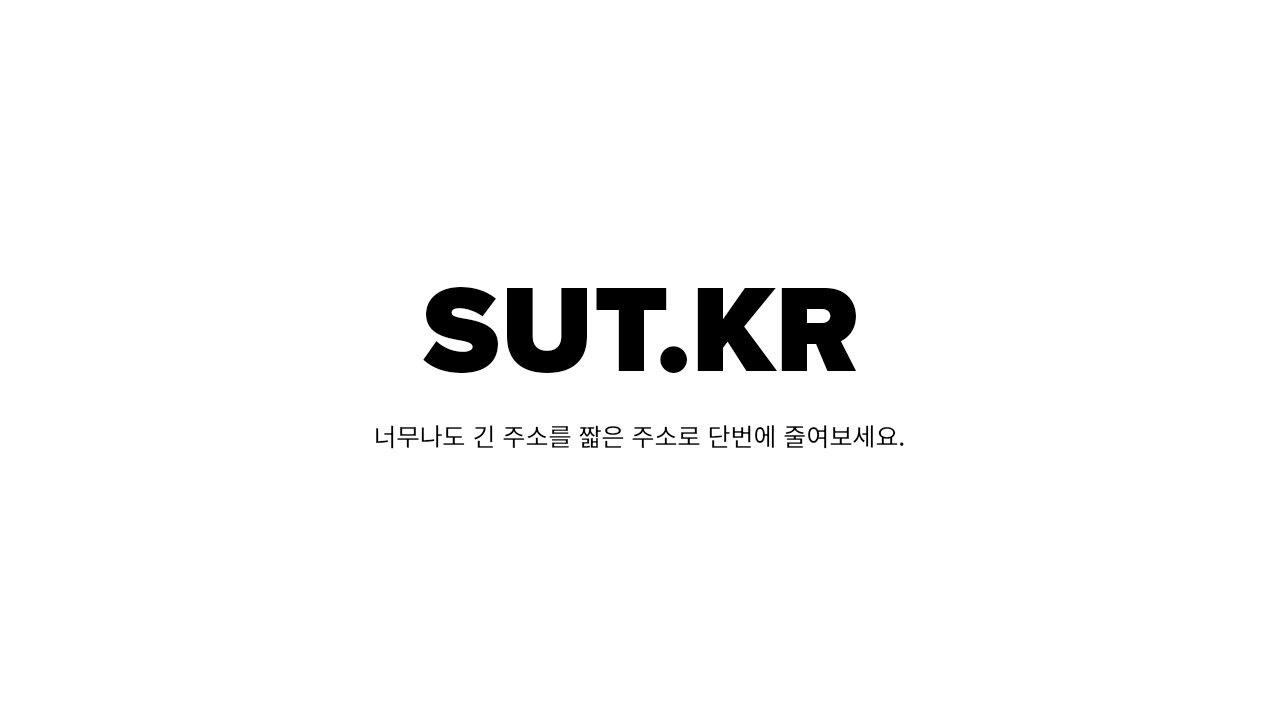
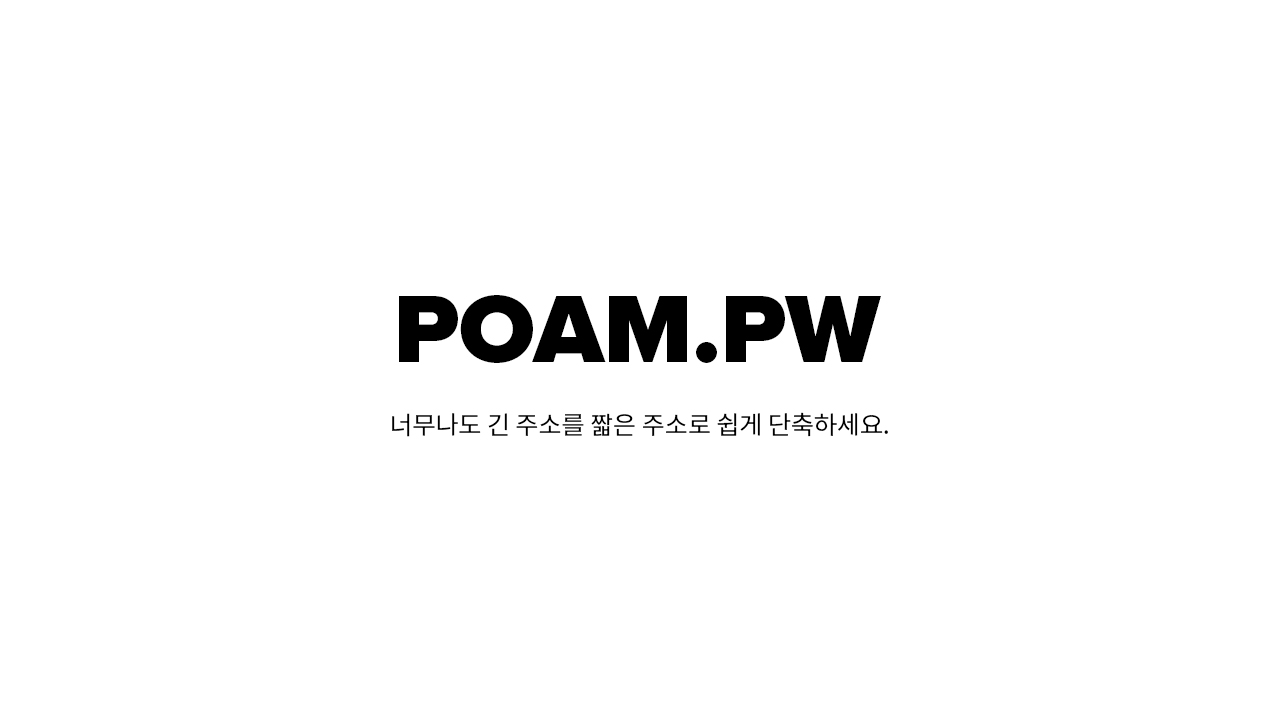
이름 변경, 배경 사진 및 파비콘 변경

Changed region(s): [[0.3125, 0.3972, 0.6875, 0.5194], [0.2812, 0.5806, 0.7188, 0.6417]]

diff --git a/resources/views/app.blade.php b/resources/views/app.blade.php
@@ -2,13 +2,13 @@
 <html lang="ko" translate="no">
     <head>
         <meta charset="UTF-8">
-        <title>SUT.KR - 단축 URL</title>
+        <title>POAM.PW - 단축 URL</title>
         <meta name="description" content="너무나도 긴 주소를 짧은 주소로 단번에 줄여보세요.">
         <meta property="og:type" content="website"> 
-        <meta property="og:title" content="SUT.KR - 단축 URL">
+        <meta property="og:title" content="POAM.PW - 단축 URL">
         <meta property="og:description" content="너무나도 긴 주소를 짧은 주소로 단번에 줄여보세요.">
         <meta property="og:image" content="background.jpg">
-        <meta property="og:url" content="https://sut.kr">
+        <meta property="og:url" content="https://poam.pw">
         <link rel="shortcut icon" href="{{ asset('favicon.png') }}">
         <link href="{{ asset('css/main.css') }}" rel="stylesheet">
         <link href="{{ asset('css/grid.css') }}" rel="stylesheet">
@@ -20,14 +20,14 @@
     <body>
         <section class="s-header">
             <div class="container">
-                <h1><a href="/">SUT.KR</a></h1>
+                <h1><a href="/">POAM.PW</a></h1>
             </div>
         </section>
         @yield('content')
         <section class="s-footer">
             <div class="container">
                 <p><a href="/terms">이용약관</a> | <a href="mailto:yunsol267@gmail.com">이메일 문의</a></p>
-                <p>SUT.KR 2021 모든 권리 보유.
+                <p>POAM.PW 2021 모든 권리 보유.
             </div>
         </section>
     </body>
